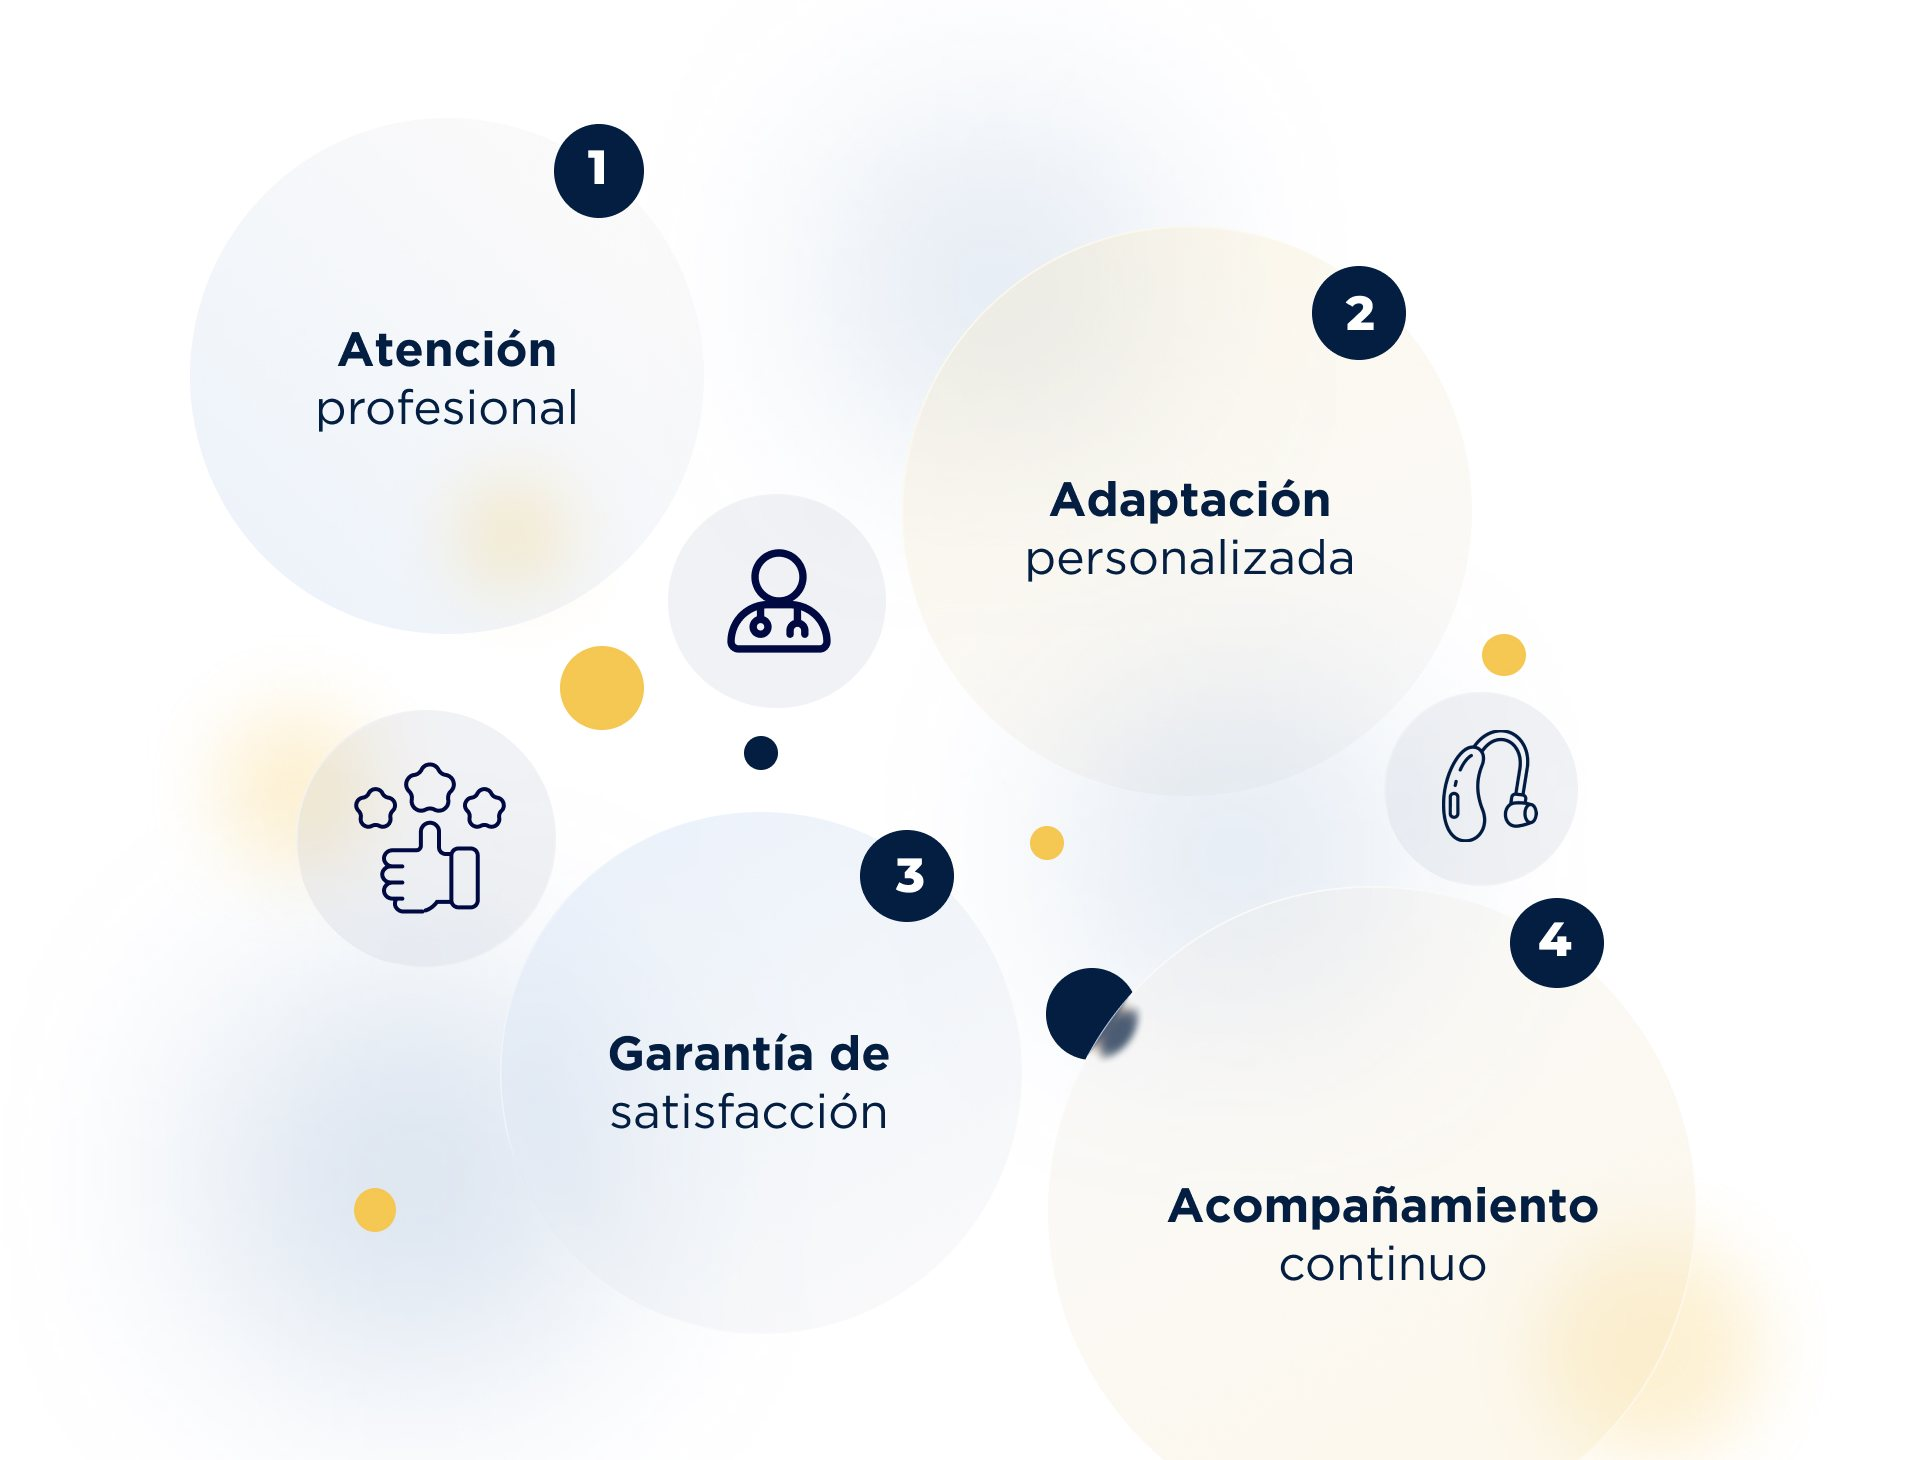
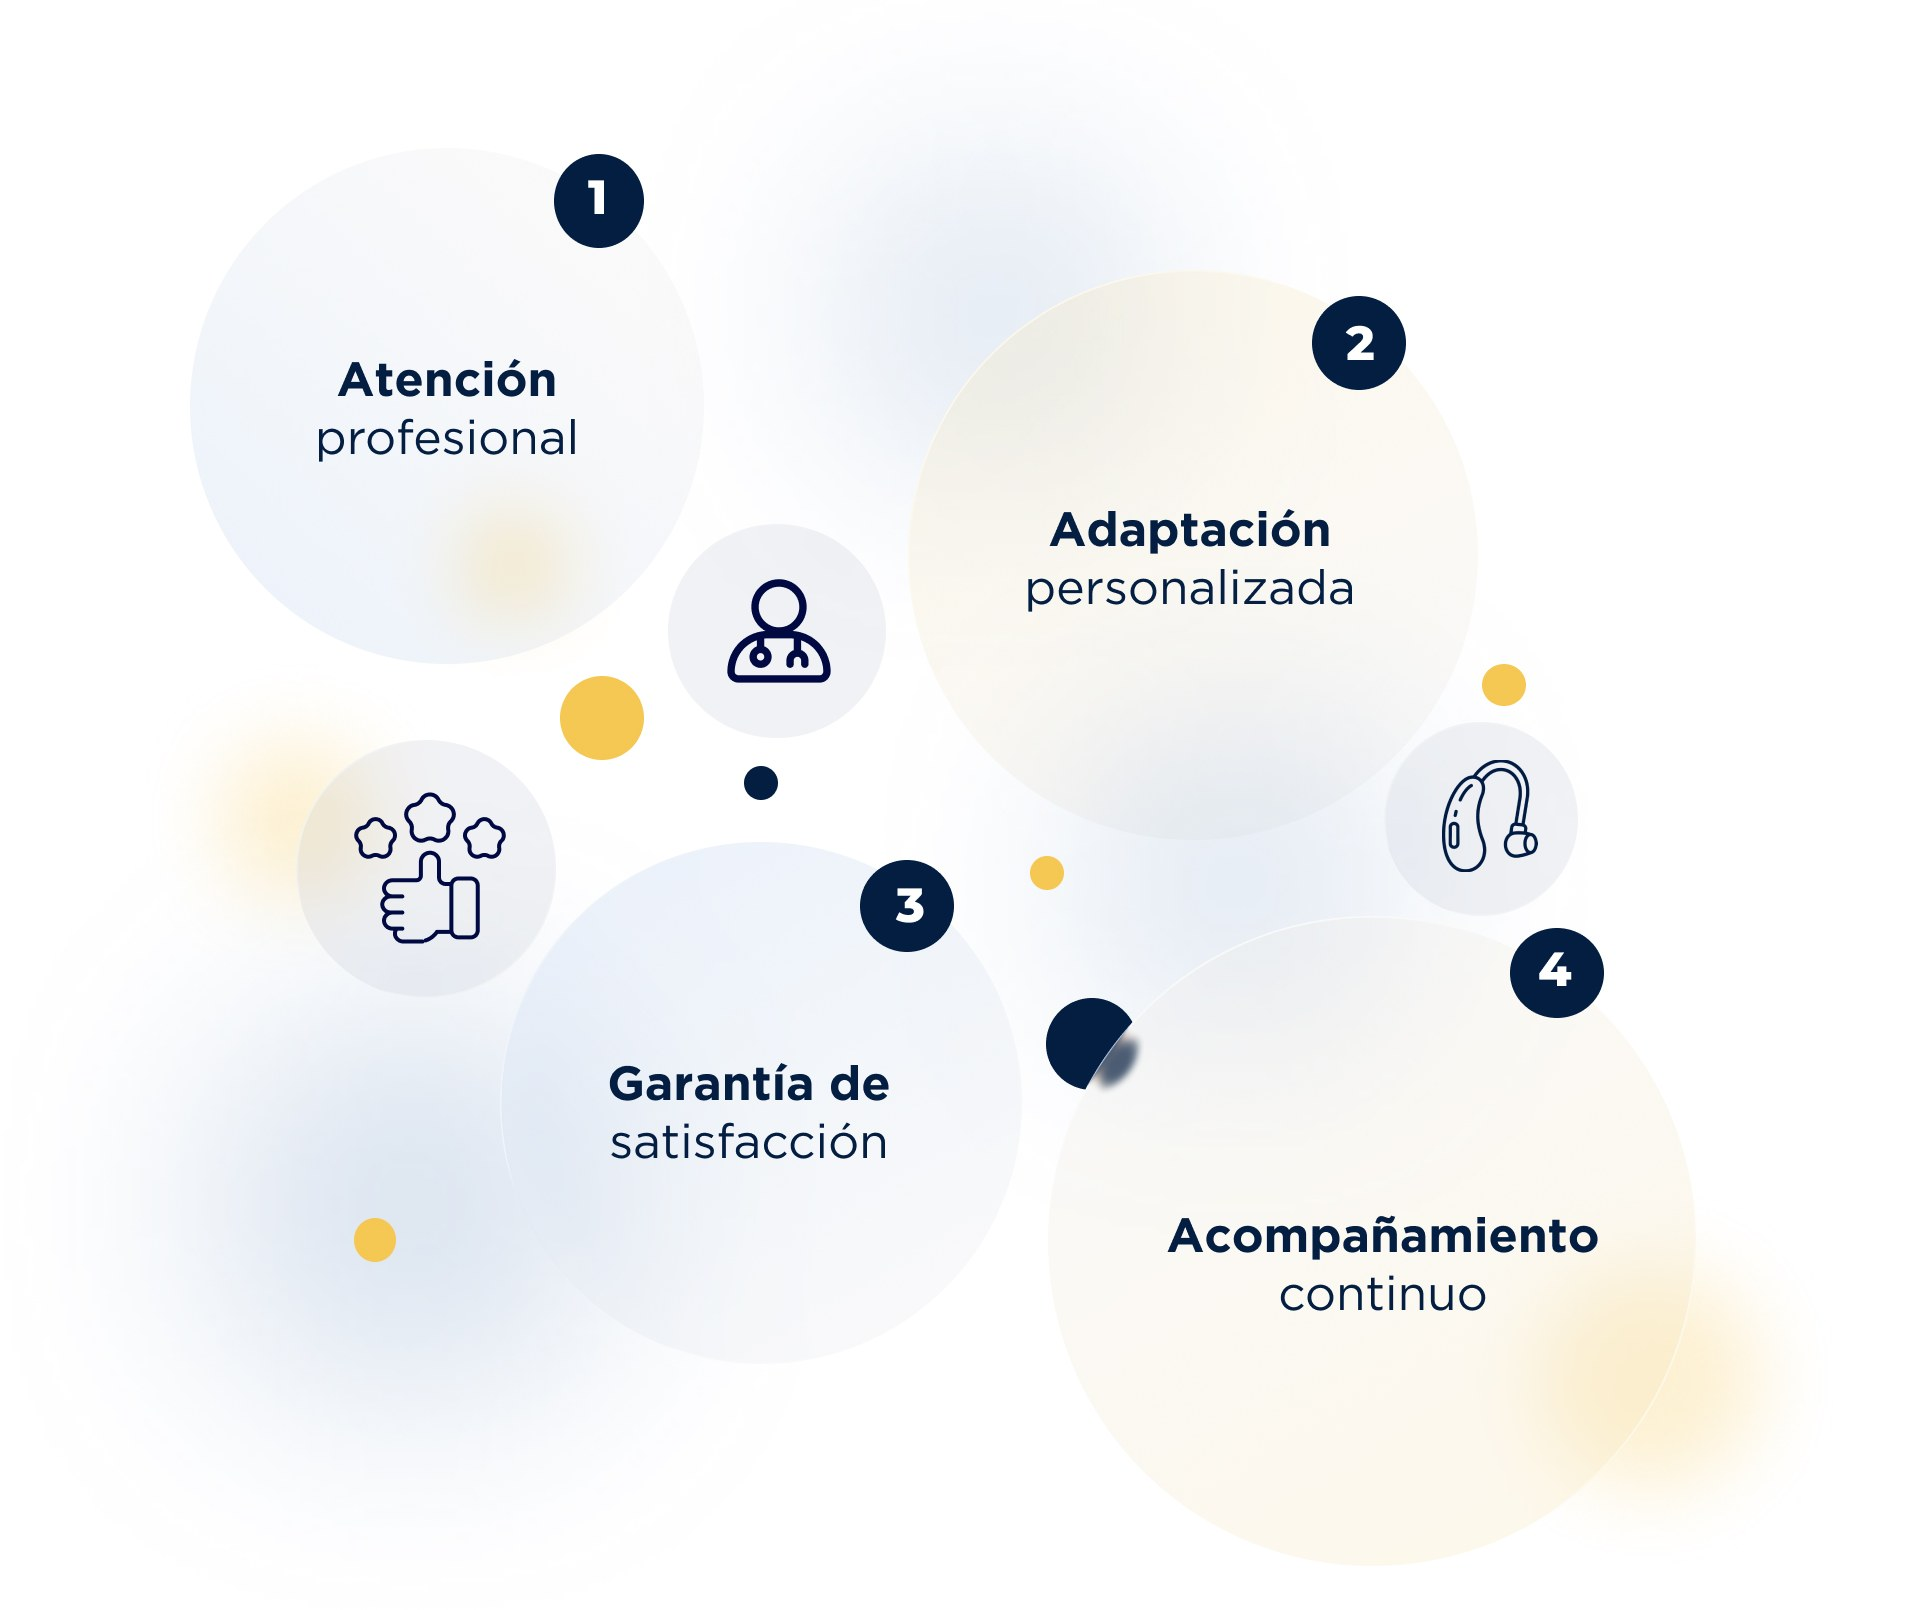
Nosotros: gráfico de 'Lo que nos guía' completo (sin cortar círculos) y más pequeño
Claude-Session: https://claude.ai/code/session_01KXgfURWN5eADwFqiRENNbR

diff --git a/src/components/nosotros/Nosotros.module.css b/src/components/nosotros/Nosotros.module.css
@@ -285,11 +285,13 @@
   transform: translateX(calc(19 * var(--px)));
 }
 
+/* gráfico de "Lo que nos guía": recorte completo (sin cortar los círculos) y más pequeño (82 %)
+   que en el diseño, a pedido de Jean; centrado en el mismo espacio */
 .guia {
   position: absolute;
-  left: calc(4 * var(--px));
-  top: calc(2117 * var(--px));
-  width: calc(965 * var(--px));
+  left: calc(91 * var(--px));
+  top: calc(2174 * var(--px));
+  width: calc(791 * var(--px));
 }
 
 .tecTitulo {
